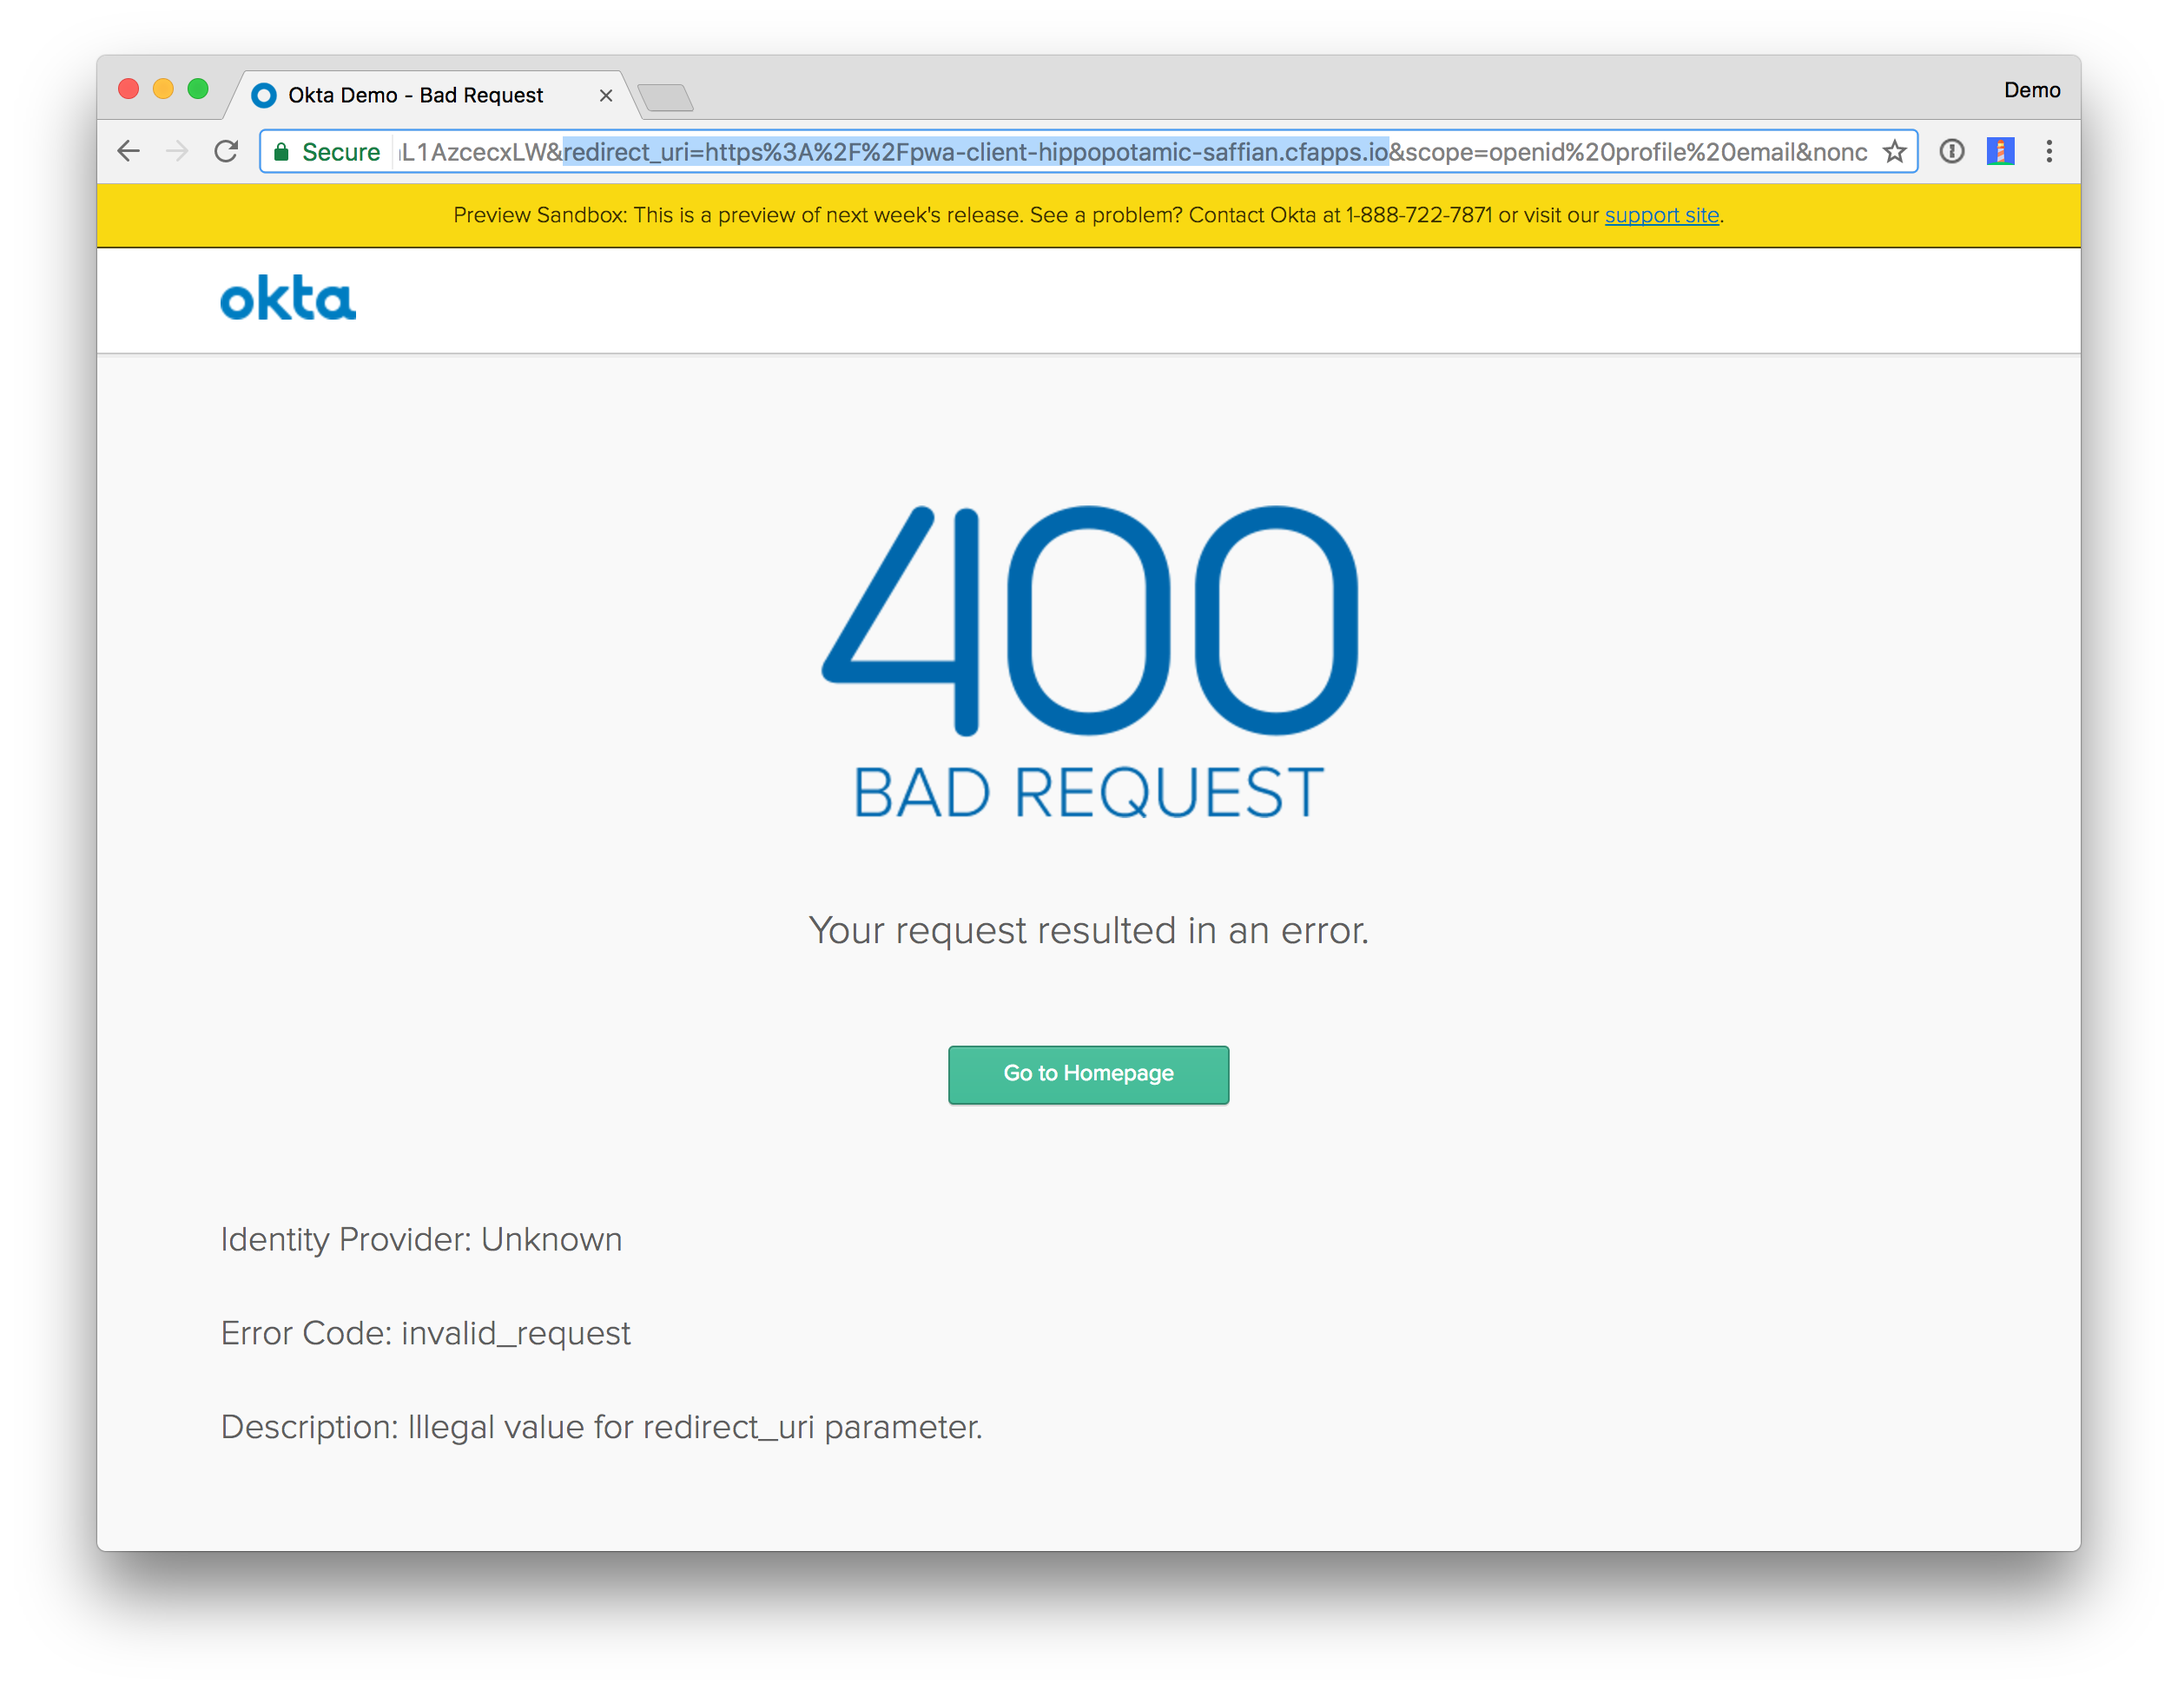
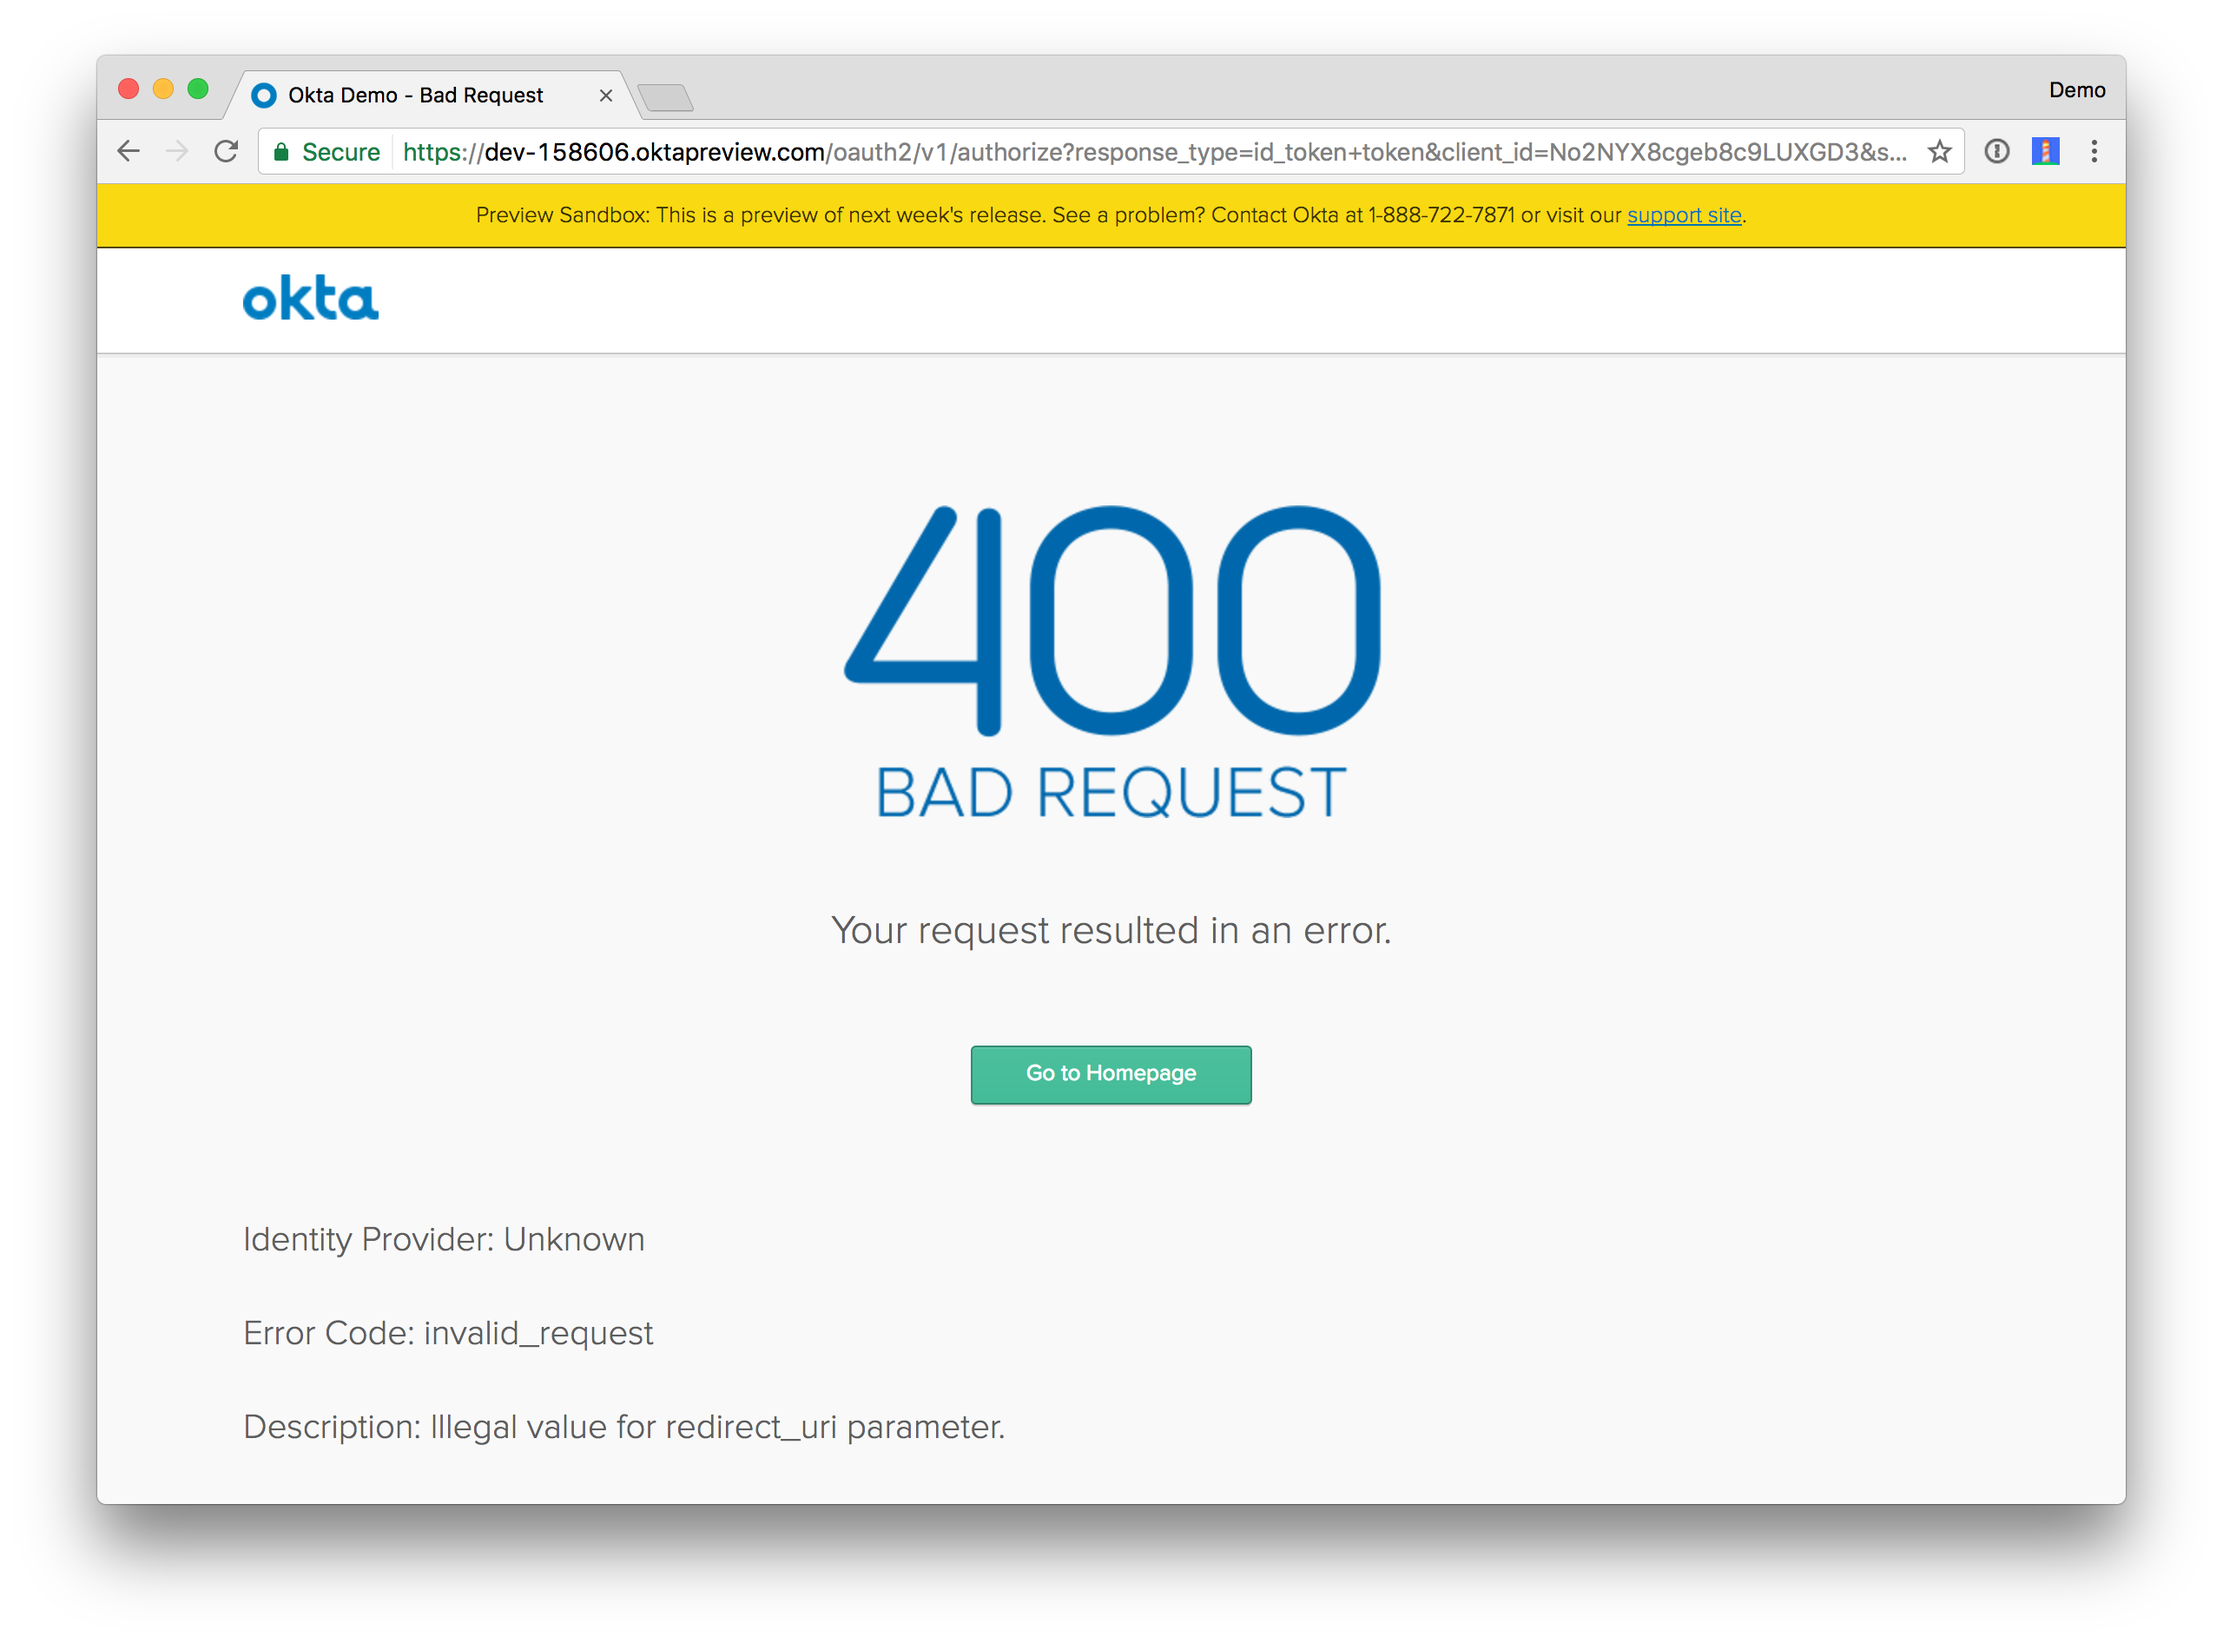
First draft of tutorial

diff --git a/TUTORIAL.md b/TUTORIAL.md
@@ -700,53 +700,16 @@ Now it's time for one of the coolest places on the internet - *production!*
 
 Before you deploy these applications to production, I recommend stopping both. That way there's no resource contention for file access. 
 
-To deploy this app to Cloud Foundry, you'll need 1) to update `deploy.sh` in the root directory to set environment variables, and 2) set the URL of the server in a different file. Here's what the diff looks like after these modifications.
+To deploy this app to Cloud Foundry, you'll need 1) to update `deploy.sh` in the root directory to set environment variables, 2) set the URL of the server in a different file, and 3) add `pushstate: enabled` to  `Staticfile`. You can see the [modified deploy.sh on GitHub](https://github.com/oktadeveloper/okta-spring-boot-angular-pwa-example/blob/master/deploy.sh).
 
-```diff
-diff --git a/deploy.sh b/deploy.sh
-index 69271c2..1238b79 100755
---- a/deploy.sh
-+++ b/deploy.sh
-@@ -41,6 +41,9 @@ cf a
- cd $r/server
- mvn clean package
- cf push -p target/*jar pwa-server --no-start  --random-route
-+cf set-env pwa-server STORMPATH_API_KEY_ID $STORMPATH_CLIENT_BASEURL
-+cf set-env pwa-server STORMPATH_API_KEY_ID $OKTA_APPLICATION_ID
-+cf set-env pwa-server STORMPATH_API_KEY_SECRET $OKTA_API_TOKEN
- 
- # Get the URL for the server
- serverUri=https://`app_domain pwa-server`
-@@ -49,7 +52,7 @@ serverUri=https://`app_domain pwa-server`
- cd $r/client
- rm -rf dist
- # replace the server URL in the client
--sed -i -e "s|http://localhost:8080|$serverUri|g" $r/client/src/app/shared/beer/beer.service.ts
-+sed -i -e "s|http://localhost:8080|$serverUri|g" $r/client/src/app/app.module.ts
- yarn && ng build --prod --aot
- # Fix filenames in sw.js
- python $r/sw.py
-@@ -63,7 +66,7 @@ cf start pwa-client
- clientUri=https://`app_domain pwa-client`
- 
- # replace the client URL in the server
--sed -i -e "s|http://localhost:4200|$clientUri|g" $r/server/src/main/java/com/example/beer/BeerController.java
-+sed -i -e "s|http://localhost:4200|$clientUri|g" $r/server/src/main/resources/application.properties
- 
- # redeploy the server
- cd $r/server
-@@ -73,8 +76,8 @@ cf push -p target/*jar pwa-server
- # cleanup changed files
- git checkout $r/client
- git checkout $r/server
--rm $r/client/src/app/shared/beer/beer.service.ts-e
--rm $r/server/src/main/java/com/example/beer/BeerController.java-e
-+rm $r/client/src/app/app.module.ts-e
-+rm $r/server/src/main/resources/application.properties-e
- 
- # show apps and URLs
- cf apps
+// todo: IMO, this note will look better if it has a box around it, like a callout of sorts
+**NOTE:** An alternative to enabling push state is to use hashes in the URL. To do this, you can pass in `{useHash: true}` when creating your routes. 
+          
+```typescript
+RouterModule.forRoot(appRoutes, {useHash: true})
 ```
+
+Unfortunately, this causes the redirect login button to fail since there will be two hashes in the URL.
 
 [Install the Cloud Foundry CLI](https://docs.cloudfoundry.org/cf-cli/install-go-cli.html), then log into [Pivotal Web Services](http://run.pivotal.io/). 
 
@@ -756,36 +719,63 @@ cf login -a api.run.pivotal.io
 
 Run `./deploy.sh` and watch the magic happen!
 
-**NOTE:** The first time I ran this script, I let the client generate a name dynamically. The name chosen had a number of dashes in it and the name was deemed invalid by Okta.
+If you navigate to the client's URL after deploying, you'll see an error like the following in Chrome's console.
+
+```
+XMLHttpRequest cannot load https://dev-158606.oktapreview.com/.well-known/openid-configuration. 
+No 'Access-Control-Allow-Origin' header is present on the requested resource. Origin 
+'https://pwa-client-phototopographical-subcurrent.cfapps.io' is therefore not allowed access.
+```
+
+To fix this, modify the Trusted Origins on Okta (under **Security** > **API**) to have your client's URL (e.g. `https://pwa-client-phototopographical-subcurrent.cfapps.io`). 
+
+![Add Trusted Origin](static/add-cf-origin.png)
+
+This makes the cross-origin error go away, but it will cause an invalid redirect issue when you try to login with the first login button. 
 
 ![Invalid Redirect URI](static/invalid-redirect.png)
 
-I tried adding it to my OIDC settings, but that didn't help anything. I modified `deploy.sh` to have a name of pwa-client-auth and tried again. This time it failed because of an cross-origin error. I modified my Trusted Origins on Okta (under **Security** > **API**) to use `https://pwa-client-auth.cfapps.io`. 
+To fix this, modify the `Redirect URIs` for your OIDC application in Okta. 
 
-![Add Origin](static/add-origin.png)
+![OIDC Redirect URIs](static/oidc-settings-cf-redirect.png)
 
-Next, I received an invalid redirect message again. I modified my OIDC app settings and this time it worked!
+Now both login techniques should work as expected and you should be able to load the beer list from your Spring Boot app.
 
-I also found that reloading the app on Cloud Foundry didn't work, it'd just result in a 404 for the `/home` URL. You can pass in `{useHash: true}` when creating your routes to workaround this issue. *[Thanks Stack Overflow](https://stackoverflow.com/a/38964658/65681)!*
+![Production Beer List](static/production-beer-list.png)
 
-```typescript
-RouterModule.forRoot(appRoutes, {useHash: true}),
+The first time I ran [Lighthouse](https://developers.google.com/web/tools/lighthouse/) on this application, I was surprised to see it received a PWA score of 91. When I deployed this application previously, it [received a 98](https://developer.okta.com/blog/2017/05/09/progressive-web-applications-with-angular-and-spring-boot#cloud-foundry).
+ 
+![Lighthouse Score, first attempt](static/lighthouse-without-512.png)
+
+I followed the advice in the report and added the following in the list of `icons` in  `client/src/assets/icons/manifest.json`.
+
+```json
+{
+  "src": "/assets/icons/android-chrome-512x512.png",
+  "sizes": "512x512",
+  "type": "image/png"
+}
 ```
+
+When I re-deployed with this change, I received a 100. *Huzzah!*
+
+![Lighthouse Perfect Score](static/lighthouse-with-512.png)
 
 ## Happy Authenticating!
 
+You can find the source code associated with this article [on GitHub](https://github.com/oktadeveloper/okta-spring-boot-angular-pwa-example). If you find any bugs, please file an issue, or leave a comment on this post. Of course, you can always [ping me on Twitter](https://twitter.com/mraible) too.
 
-## Source Code
-You can find the source code associated with this article [on GitHub](https://github.com/stormpath/stormpath-spring-boot-angular-pwa-example). If you find any bugs, please file an issue, or leave a comment on this post. Of course, you can always [ping me on Twitter](https://twitter.com/mraible) too.
+This article showed you how to develop a Spring Boot backend, and lock it down with Okta. You learned how to develop an Angular front end and use OpenID Connect to get an access token and securely communicate with the backend. You also learned how you can use the Stormpath Angular SDK to do the same thing. Finally, you saw how to deploy everything to Cloud Foundry and get a Lighthouse PWA score of 100.
 
-## What’s Next?
+To learn more about PWAs, check out some recent tutorials I wrote.
 
-This article showed you how to develop a Spring Boot backend, and lock it down with Stormpath. You learned how to develop an Angular front end and use Stormpath’s Angular SDK to communicate with the secure backend. In a future article, I’ll show you <a href="https://stormpath.com/blog/progressive-web-applications-angular-spring-boot-stormpath">how to create a progressive web application and deploy it to the cloud</a>. 
+* [Build Your First Progressive Web Application with Angular and Spring Boot](http://developer.okta.com/blog/2017/05/09/progressive-web-applications-with-angular-and-spring-boot) 
+* [Tutorial: Develop a Mobile App With Ionic and Spring Boot](http://developer.okta.com/blog/2017/05/17/develop-a-mobile-app-with-ionic-and-spring-boot)
 
-To learn more about Angular, our Java SDK, or Stormpath, check out the following resources:
+There's also a number of excellent resources by Google, Pluralsight, and Smashing Magazine.
 
-* [A Simple Web App with Spring Boot, Spring Security and Stormpath – in 15 Minutes](https://stormpath.com/blog/build-spring-boot-spring-security-app)
-* [The Architecture of Stormpath’s Java SDK](https://stormpath.com/blog/java-sdk-architecture)
-* [Tutorial: Establish Trust Between Microservices with JWT and Spring Boot](https://stormpath.com/blog/microservices-jwt-spring-boot)
-* [Getting Started with Angular](https://www.youtube.com/watch?v=Jq3szz2KOOs) A Stormpath webinar 
-* [Stormpath Client API Guide](https://docs.stormpath.com/client-api/product-guide/latest/) 
+* Addy Osmani at Google I/O '17: [Production Progressive Web Apps With JavaScript Frameworks](https://youtu.be/aCMbSyngXB4)
+* Google's [Progressive Web Apps](https://developers.google.com/web/progressive-web-apps/) homepage, [step-by-step code lab](https://codelabs.developers.google.com/codelabs/your-first-pwapp/), and [instructor-led PWA training](https://developers.google.com/web/ilt/pwa/).
+* Pluralsight's [Getting Started with Progressive Web Apps](https://www.pluralsight.com/courses/web-apps-progressive-getting-started)
+* [A Beginner's Guide To Progressive Web Apps](https://www.smashingmagazine.com/2016/08/a-beginners-guide-to-progressive-web-apps/)
+ 
